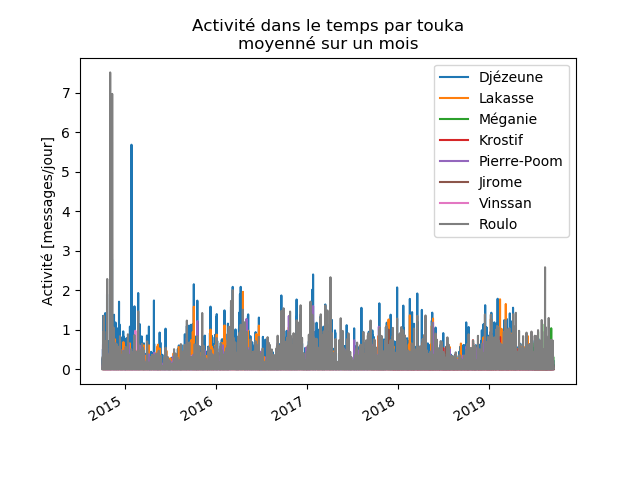
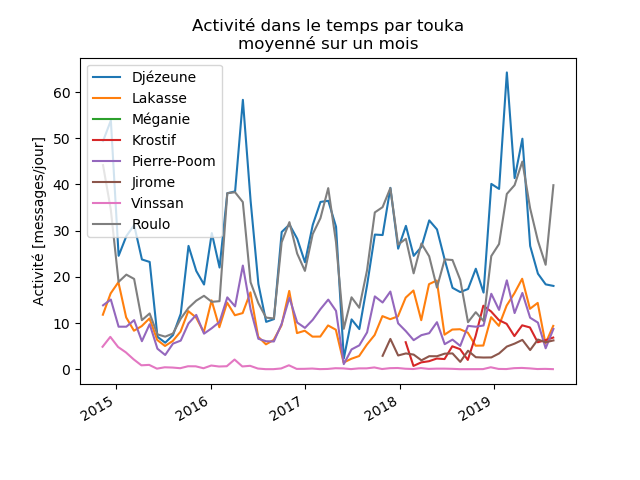
last adjustments for tonight

diff --git a/analytics/print_analytics.py b/analytics/print_analytics.py
@@ -23,7 +23,7 @@ def activite_interp(temps, messages, dx=3600):
     return x_new, activite
 
 touka_dir = os.path.dirname(os.path.dirname(__file__))
-fig_dir = os.path.join(touka_dir, 'figures')
+fig_dir = os.path.join(touka_dir, 'figures2')
 localDB_dir = os.path.join(touka_dir, 'localDB')
 
 data = pd.read_csv(os.path.join(localDB_dir, "df.csv") )
@@ -70,7 +70,9 @@ plt.clf()
 for name in df.index:
     member_chars = df.loc[name, 'n_char']
     member_chars = [int(n_char) for n_char in member_chars[1:-1].split(', ')]
-    plt.plot(member_chars, range(len(member_chars),0,-1), label=name)
+    timestamps = df.loc[name, 'msg_timestamps']
+    dates = [datetime.fromtimestamp(int(timestamp)/1000) for timestamp in timestamps[1:-1].split(', ')]
+    plt.plot(dates, member_chars[::-1], label=name)
 
 plt.gcf().autofmt_xdate()
 plt.legend()
@@ -82,10 +84,10 @@ plt.clf()
 
 for name in df.index:
     timestamps = df.loc[name, 'msg_timestamps']
-    timestamps = [int(timestamp) for timestamp in timestamps[1:-1].split(', ')]
+    timestamps = [int(timestamp)/1000 for timestamp in timestamps[1:-1].split(', ')]
     temps, activite_ = activite_interp(timestamps, range(len(timestamps)),
                                        dx=3600 * 24 * 30)  # Moyenné sur 1 mois
-    date_list = [datetime.fromtimestamp(t/1000) for t in temps]  # converted
+    date_list = [datetime.fromtimestamp(t) for t in temps]  # converted
     plt.plot(date_list, activite_, label=name)
 
 plt.gcf().autofmt_xdate()
